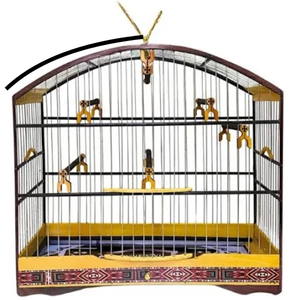
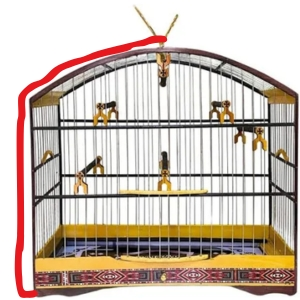
medida acrescentada

diff --git a/script.js b/script.js
@@ -89,6 +89,11 @@ document.addEventListener('DOMContentLoaded', function() {
             campo: 'altura_lateral',
             imagem: 'src/modelo semicircular/alturaLateral.jpg' // Troque aqui para a imagem de altura lateral
         },
+        {
+            texto: 'Lateral, do fundo até o gancho (cm)?',
+            campo: 'aro',
+            imagem: 'src/modelo semicircular/aro.jpg' // Troque aqui para a imagem do aro
+        },
         perguntaUnidades
     ];
 
@@ -129,7 +134,7 @@ document.addEventListener('DOMContentLoaded', function() {
                 : perguntasCircular;
         } else if (tipo === 'semicircular') {
             perguntasAtuais = (modeloCapa === 'lateral')
-                ? perguntasSemicircular.filter(p => !['comprimento','altura_central'].includes(p.campo))
+                ? perguntasSemicircular.filter(p => ['largura','aro','unidades'].includes(p.campo))
                 : perguntasSemicircular;
         } else {
             return;
